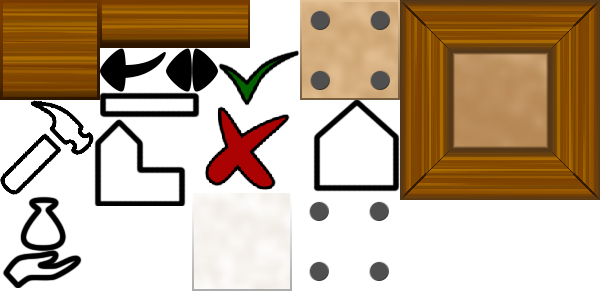
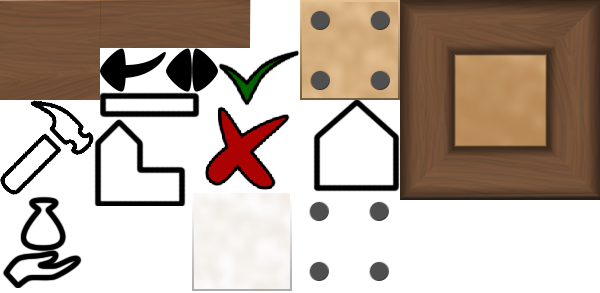
UI new wood and build bugfix

Changed region(s): [[0.66, 0.0, 1.0, 0.7065], [0.0, 0.0, 0.42, 0.3686]]

diff --git a/Die Erbauer von Cant/Assets/Scripts/Pawn.cs b/Die Erbauer von Cant/Assets/Scripts/Pawn.cs
@@ -44,19 +44,17 @@ public class Pawn
 
         Field[] fields = GetFields();
 
-        for (int i = 0; i < GameBoard.MainBoard.tilesGrid.Length; i++)
+        for (int i = 0; i < fields.Length; i++)
         {
-            for (int j = 0; j < GameBoard.MainBoard.tilesGrid[i].Length; j++)
+            for (int k = 0; k < fields[i].pawns.Length; k++)
             {
-                for (int k = 0; k < GameBoard.MainBoard.tilesGrid[i][j].pawns.Length; k++)
+                if (fields[i].pawns[k] != null && fields[i].pawns[k].Equals(this))
                 {
-                    if (GameBoard.MainBoard.tilesGrid[i][j].pawns[k] != null && GameBoard.MainBoard.tilesGrid[i][j].pawns[k].Equals(this))
-                    {
-                        result.Add(k);
-                    }
+                    result.Add(k);
                 }
             }
         }
+        
 
         return result.ToArray();
     }

diff --git a/Die Erbauer von Cant/Assets/Scripts/GameBoard.cs b/Die Erbauer von Cant/Assets/Scripts/GameBoard.cs
@@ -411,6 +411,12 @@ public class GameBoard
                     Field[] currentFields = currentPawn.GetFields();
                     int[] currentPos = currentPawn.GetPosAtField();
 
+                    if(currentFields.Length == 0 || currentPos.Length == 0)
+                    {
+                        Debug.LogError("Hier ist eine Spielfigur ohne Felder");
+                        continue;
+                    }
+
                     if (currentPawn.type == "Street")
                     {
                         /////////////////////////////////
